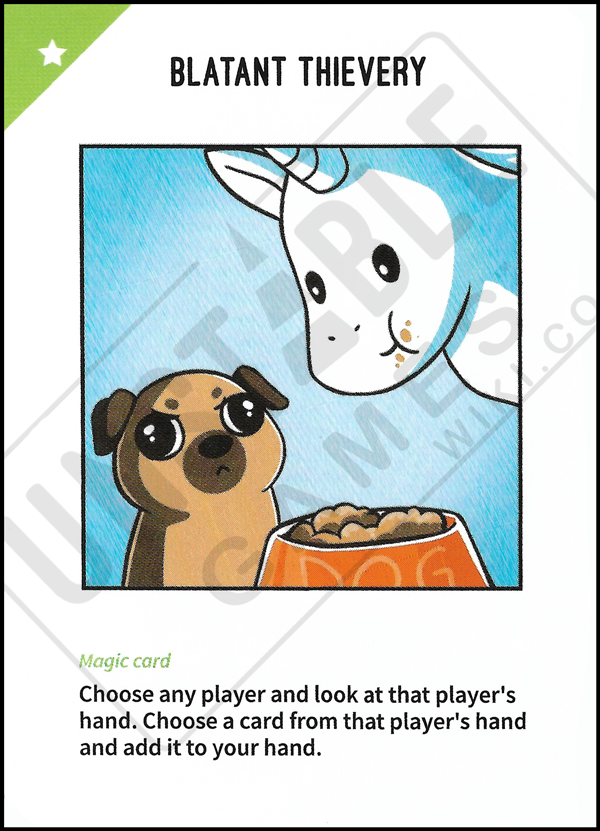
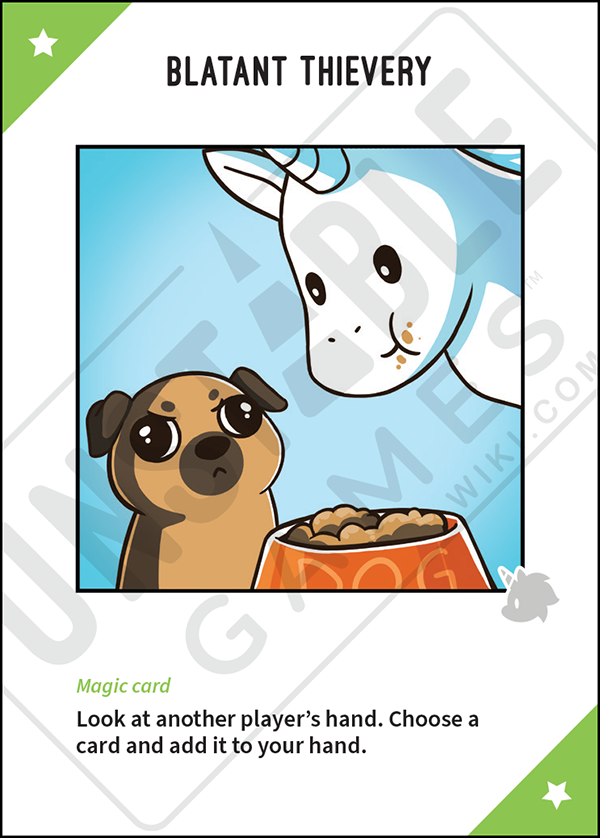
kiss of life done, magic cards replaced by hi res images

diff --git a/client/src/components/overlay/GameOverlay.tsx b/client/src/components/overlay/GameOverlay.tsx
@@ -792,6 +792,7 @@ export default function GameOverlay({ gameState, localPlayerId, hide = false }: 
         action.reason === 'majestic_flying_unicorn';
       const isNecromancer = action.reason === 'necromancer_unicorn';
       const isSwiftFlyingUnicorn = action.reason === 'swift_flying_unicorn';
+      const isKissOfLife = action.reason === 'kiss_of_life';
 
       const eligibleCards = gameState.discard.filter(
         (card) =>
@@ -814,7 +815,9 @@ export default function GameOverlay({ gameState, localPlayerId, hide = false }: 
                   ? '🕊 Swifty Flying Unicorn'
                   : isNecromancer
                     ? '🧙 Necromancer Unicorn'
-                    : '😈 Dark Angel Unicorn'
+                    : isKissOfLife
+                      ? '💋 Kiss Of Life'
+                      : '😈 Dark Angel Unicorn'
           }
           subtitle={
             isMagicalFlyingUnicorn

diff --git a/server/src/game/unstable-unicorns/engine/effects/index.ts b/server/src/game/unstable-unicorns/engine/effects/index.ts
@@ -31,6 +31,7 @@ import { swiftyFlyingUnicorn } from '../../../cards/effects/swiftyFlyingUnicorn.
 import { theGreatNarwhal } from '../../../cards/effects/theGreatNarwhal.ts';
 import { unicornOnTheCob } from '../../../cards/effects/unicornOnTheCob.ts';
 import { unicornPhoenix } from '../../../cards/effects/unicornPhoenix.ts';
+import { kissOfLife } from '../../../cards/effects/kissOfLife.ts';
 import { unicornOracle } from '../../../cards/effects/unicornOracle.ts';
 import type { CardEffect } from './CardEffect.ts';
 
@@ -69,4 +70,5 @@ export const effects: Record<string, CardEffect> = {
   unicorn_on_the_cob: unicornOnTheCob,
   unicorn_oracle: unicornOracle,
   unicorn_phoenix: unicornPhoenix,
+  kiss_of_life: kissOfLife,
 };

diff --git a/shared/types/PendingAction.ts b/shared/types/PendingAction.ts
@@ -107,7 +107,7 @@ export type PendingAction =
     }
   | {
       type: "select_discard_card";
-      reason: "dark_angel_unicorn" | "magical_flying_unicorn" | "majestic_flying_unicorn" | "necromancer_unicorn" | "swift_flying_unicorn";
+      reason: "dark_angel_unicorn" | "magical_flying_unicorn" | "majestic_flying_unicorn" | "necromancer_unicorn" | "swift_flying_unicorn" | "kiss_of_life";
       playerId: string;
       cardType?: "unicorn" | "magic" | "upgrade" | "downgrade" | "instant";
     }

diff --git a/server/src/game/cards/effects/kissOfLife.ts b/server/src/game/cards/effects/kissOfLife.ts
@@ -1,0 +1,18 @@
+import type { CardEffect } from '../../unstable-unicorns/engine/effects/CardEffect.ts';
+
+export const kissOfLife: CardEffect = {
+  onPlay(state, player) {
+    const hasUnicornInDiscard = state.discard.some(
+      (c) => c.cardType === 'unicorn',
+    );
+
+    if (!hasUnicornInDiscard) return;
+
+    state.pendingAction = {
+      type: 'select_discard_card',
+      reason: 'kiss_of_life',
+      playerId: player.id,
+      cardType: 'unicorn',
+    };
+  },
+};

diff --git a/server/src/sockets/actionHandlers.ts b/server/src/sockets/actionHandlers.ts
@@ -998,7 +998,8 @@ export function registerActionHandlers(
         pending.reason !== "magical_flying_unicorn" &&
         pending.reason !== "majestic_flying_unicorn" &&
         pending.reason !== "necromancer_unicorn" &&
-        pending.reason !== "swift_flying_unicorn"
+        pending.reason !== "swift_flying_unicorn" &&
+        pending.reason !== "kiss_of_life"
       )
         return;
 
